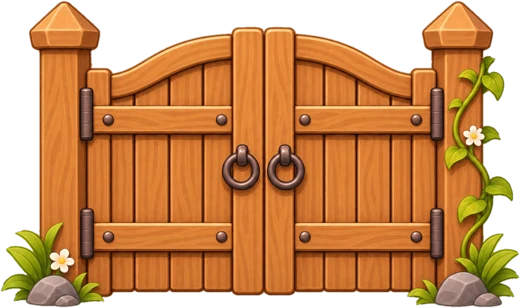
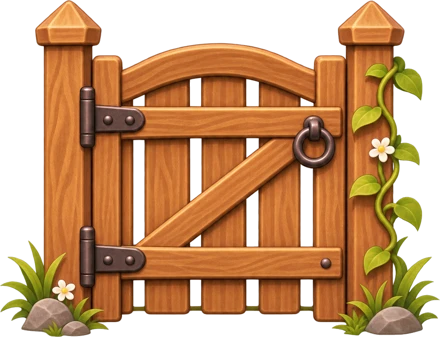
Portail du jardin commun : portillon à l'échelle de la boîte aux lettres, plus coupé en haut (v3.1.38, test)
Claude-Session: https://claude.ai/code/session_018D5HKHv8P36r9XqBrjDYb3

diff --git a/index.html b/index.html
@@ -6,13 +6,13 @@
   <title>Potager idle</title>
   <meta name="description" content="Un petit jeu idle de potager : plante, arrose, récolte, cuisine et découvre des variétés hybrides.">
   <meta name="theme-color" content="#fdf3e7" id="theme-color">
-  <link rel="manifest" href="manifest.webmanifest?v=437">
+  <link rel="manifest" href="manifest.webmanifest?v=438">
   <link rel="icon" href="icons/favicon-32.png" sizes="32x32" type="image/png">
   <link rel="icon" href="icons/favicon-64.png" sizes="64x64" type="image/png">
   <link rel="icon" href="icons/icon-192.png" sizes="192x192" type="image/png">
   <link rel="preload" href="fonts/nunito-latin.woff2" as="font" type="font/woff2" crossorigin>
   <link rel="preload" href="fonts/fredoka-latin.woff2" as="font" type="font/woff2" crossorigin>
-  <link rel="stylesheet" href="css/style.css?v=437">
+  <link rel="stylesheet" href="css/style.css?v=438">
 </head>
 <body>
 <div id="app">
@@ -45,27 +45,27 @@
 <div id="fx"></div>
 <div id="toasts" aria-live="polite"></div>
 
-<script src="js/env.js?v=437"></script>
-<script src="js/typo.js?v=437"></script>
-<script src="js/data.js?v=437"></script>
-<script src="assets/img/manifest.js?v=437"></script>
-<script src="js/art.js?v=437"></script>
-<script src="js/seasons.js?v=437"></script>
-<script src="js/sound.js?v=437"></script>
-<script src="js/achievements.js?v=437"></script>
-<script src="js/cloud-config.js?v=437"></script>
-<script src="js/cloud.js?v=437"></script>
-<script src="js/profile.js?v=437"></script>
-<script src="js/friends.js?v=437"></script>
-<script src="js/visit.js?v=437"></script>
-<script src="js/water.js?v=437"></script>
-<script src="js/trade.js?v=437"></script>
-<script src="js/like.js?v=437"></script>
-<script src="js/goals.js?v=437"></script>
-<script src="js/news.js?v=437"></script>
-<script src="js/balades.js?v=437"></script>
-<script src="js/jardin.js?v=437"></script>
-<script src="js/tuto.js?v=437"></script>
-<script src="js/game.js?v=437"></script>
+<script src="js/env.js?v=438"></script>
+<script src="js/typo.js?v=438"></script>
+<script src="js/data.js?v=438"></script>
+<script src="assets/img/manifest.js?v=438"></script>
+<script src="js/art.js?v=438"></script>
+<script src="js/seasons.js?v=438"></script>
+<script src="js/sound.js?v=438"></script>
+<script src="js/achievements.js?v=438"></script>
+<script src="js/cloud-config.js?v=438"></script>
+<script src="js/cloud.js?v=438"></script>
+<script src="js/profile.js?v=438"></script>
+<script src="js/friends.js?v=438"></script>
+<script src="js/visit.js?v=438"></script>
+<script src="js/water.js?v=438"></script>
+<script src="js/trade.js?v=438"></script>
+<script src="js/like.js?v=438"></script>
+<script src="js/goals.js?v=438"></script>
+<script src="js/news.js?v=438"></script>
+<script src="js/balades.js?v=438"></script>
+<script src="js/jardin.js?v=438"></script>
+<script src="js/tuto.js?v=438"></script>
+<script src="js/game.js?v=438"></script>
 </body>
 </html>

diff --git a/css/style.css b/css/style.css
@@ -1818,8 +1818,8 @@ button.sg-card { cursor: pointer; }
 .fr-row.pending { opacity: .7; }
 .sg-leave { color: #c9563f; justify-self: center; }
 /* Portail du jardin commun en haut à droite ; la boîte aux lettres à sa gauche, devant, le chevauche un peu */
-.garden > .sg-portal { top: -50px; right: 1%; left: auto; bottom: auto; width: min(36%, 156px); aspect-ratio: 520 / 308; z-index: 4; }
-.garden:has(> .sg-portal) > .mailbox { top: -24px; width: min(14%, 60px); right: calc(1% + min(36%, 156px) - min(6%, 26px)); z-index: 6; }
+.garden > .sg-portal { top: -46px; right: 1%; left: auto; bottom: auto; width: min(27%, 116px); aspect-ratio: 440 / 337; z-index: 4; }
+.garden:has(> .sg-portal) > .mailbox { right: calc(1% + min(27%, 116px) - min(5%, 22px)); z-index: 6; }
 .sg-done { font-size: .8rem; font-weight: 800; color: #3d7a2a; background: #e3f4d8; border-radius: 99px; padding: 4px 10px; white-space: nowrap; }
 .btn.ghost.sg-leave { color: #c9563f; }
 .sg-bonus { grid-column: 1 / -1; display: flex; align-items: center; gap: 6px; flex-wrap: wrap; padding: 6px 8px; border-radius: 12px; background: var(--sun-soft); border: 1px dashed #e0b84a; }
@@ -1899,3 +1899,4 @@ button.sg-card { cursor: pointer; }
   background: var(--panel-2); border-top: 1px solid var(--line); }
 .sg-says-wrap .chip { background: var(--panel); }
 .sg-says.cooling .chip { opacity: .55; }
+.garden:has(> .sg-portal) { overflow-clip-margin: 60px; margin-top: 30px; } /* le portail dépasse du jardin sans être coupé */

diff --git a/js/game.js b/js/game.js
@@ -1,7 +1,7 @@
 "use strict";
 /* Numéro de version affiché dans les Paramètres.
    À chaque mise à jour : changer APP_VERSION, le ?v= dans index.html et VERSION dans sw.js. */
-const APP_VERSION = "3.1.37" + (IS_TEST ? "-test" : "");
+const APP_VERSION = "3.1.38" + (IS_TEST ? "-test" : "");
 /* ---------------- Helpers ---------------- */
 const $ = s => document.querySelector(s);
 const now = () => Date.now();

diff --git a/sw.js b/sw.js
@@ -1,6 +1,6 @@
 /* Service worker de Potager idle : rend le jeu jouable hors-ligne.
    À chaque mise à jour du jeu, augmente VERSION pour que les téléphones téléchargent la nouvelle version. */
-const VERSION = "potager-v437";
+const VERSION = "potager-v438";
 const FILES = [
   "./",
   "index.html",

diff --git a/CHANGELOG.md b/CHANGELOG.md
@@ -122,6 +122,9 @@ Bonne saison au potager ! 🌸☀🍂❄
 
 ## Détail des mises à jour
 
+### 3.1.38 (version de test, préparation de la v4)
+- Portail du jardin commun : nouvelle image plus modeste (un portillon), à l’échelle de la boîte aux lettres, qui dépasse du jardin sans être coupé en haut.
+
 ### 3.1.37 (version de test, préparation de la v4)
 - Portail du jardin commun : image définitive (avec la vigne), plus grand ; la boîte aux lettres est plus petite à côté, pour des proportions plus justes.
 
